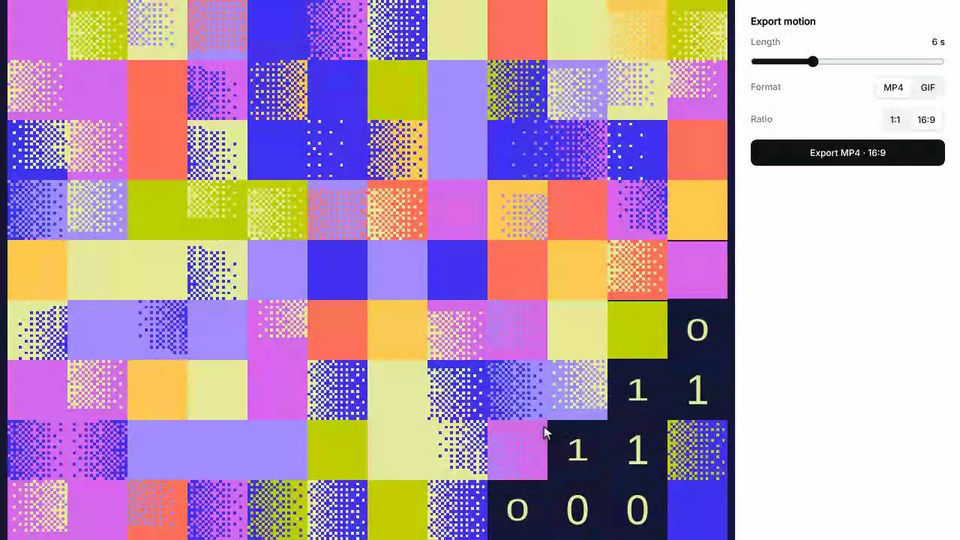
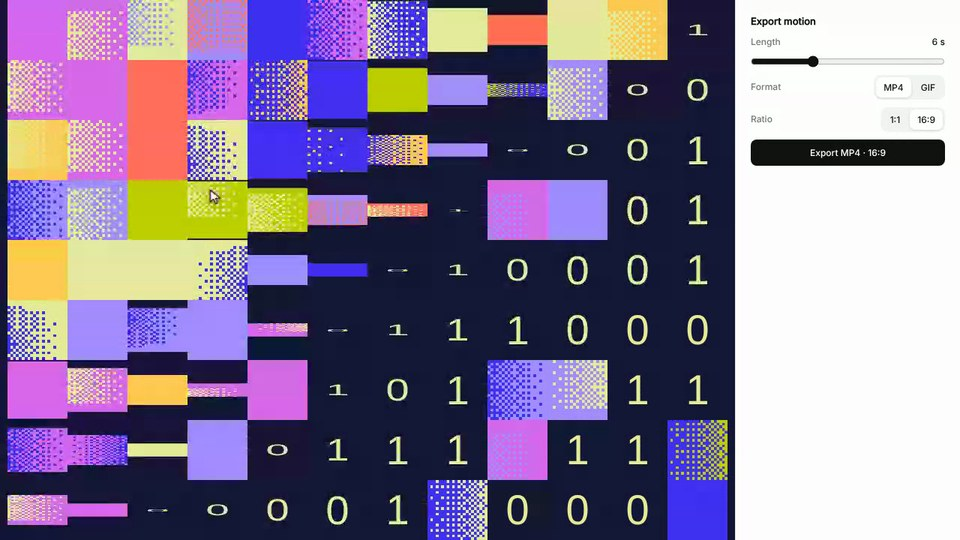
Thumbnails: brand audit halfway through the scan, binary motif halfway through the wave (#63)
* Hero banner engine: keep-clear zone around copy in 16:9; demo sets eyebrow with new heading

Claude-Session: https://claude.ai/code/session_01AHeBdws6njZLZ7w3od6eEZ

* Hero banner engine: wider 'around' layout; demo shows 9:16

Claude-Session: https://claude.ai/code/session_01AHeBdws6njZLZ7w3od6eEZ

* Brand motion: keep controls with panel on resize; hero banner: wider keep-clear zone

Claude-Session: https://claude.ai/code/session_01AHeBdws6njZLZ7w3od6eEZ

* Brand motion: preload all Poppins weights for the canvas text

Claude-Session: https://claude.ai/code/session_01AHeBdws6njZLZ7w3od6eEZ

* Demos: never save a file, block programmatic download clicks while a demo runs

Claude-Session: https://claude.ai/code/session_01AHeBdws6njZLZ7w3od6eEZ

* Mail stack demo: record a 1:1 loop while the cursor glides slowly across the square

Claude-Session: https://claude.ai/code/session_01AHeBdws6njZLZ7w3od6eEZ

* Thread guidelines: photography tile frames sit lower, cropped by the tile, title readable

Claude-Session: https://claude.ai/code/session_01AHeBdws6njZLZ7w3od6eEZ

* Tool pages: remove the About this project section

Claude-Session: https://claude.ai/code/session_01AHeBdws6njZLZ7w3od6eEZ

* Banner studio demo: hold on the final banner before looping

Claude-Session: https://claude.ai/code/session_01AHeBdws6njZLZ7w3od6eEZ

* Tool pages: restore About this project section, drop only its eyebrow label

Claude-Session: https://claude.ai/code/session_01AHeBdws6njZLZ7w3od6eEZ
[…]

diff --git a/index.html b/index.html
@@ -74,7 +74,7 @@
         </article>
         <article class="card">
           <a href="brand-audit-engine/" aria-label="Brand Audit Engine">
-            <div class="card-media"><img src="brand-audit-engine/thumbnail.jpg?v=18" data-still="brand-audit-engine/thumbnail.jpg?v=18" data-preview="clips/brand-audit-engine.webp?v=17" alt="" loading="lazy"></div>
+            <div class="card-media"><img src="brand-audit-engine/thumbnail.jpg?v=19" data-still="brand-audit-engine/thumbnail.jpg?v=19" data-preview="clips/brand-audit-engine.webp?v=17" alt="" loading="lazy"></div>
             <div class="card-meta">
               <h3 class="card-title">Brand Audit Engine</h3>
               <p class="card-sub">Interactive Tool</p><svg class="card-arrow" width="10" height="10" viewBox="0 0 10 10" aria-hidden="true"><path d="M2.3 7.7l5.1-5.1M2.3 2.1h5.5v5.5" fill="none" stroke="currentColor"/></svg>
@@ -164,7 +164,7 @@
         </article>
         <article class="card">
           <a href="binary-grid/" aria-label="No-Code Binary Motif">
-            <div class="card-media"><img src="binary-grid/thumbnail.jpg?v=17" data-still="binary-grid/thumbnail.jpg?v=17" data-preview="clips/binary-grid.webp?v=17" alt="" loading="lazy"></div>
+            <div class="card-media"><img src="binary-grid/thumbnail.jpg?v=18" data-still="binary-grid/thumbnail.jpg?v=18" data-preview="clips/binary-grid.webp?v=17" alt="" loading="lazy"></div>
             <div class="card-meta">
               <h3 class="card-title">No-Code Binary Motif</h3>
               <p class="card-sub">Motion Component</p><svg class="card-arrow" width="10" height="10" viewBox="0 0 10 10" aria-hidden="true"><path d="M2.3 7.7l5.1-5.1M2.3 2.1h5.5v5.5" fill="none" stroke="currentColor"/></svg>
